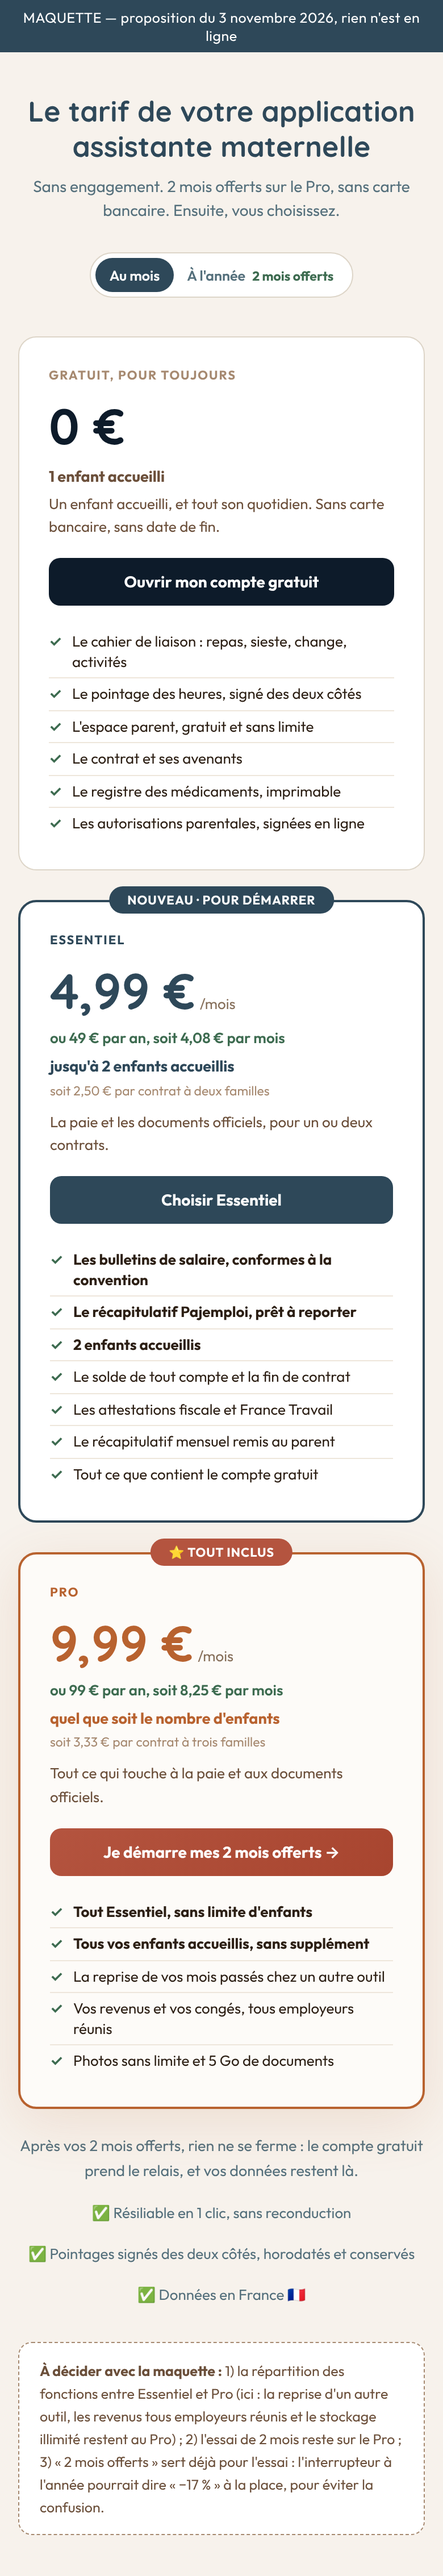
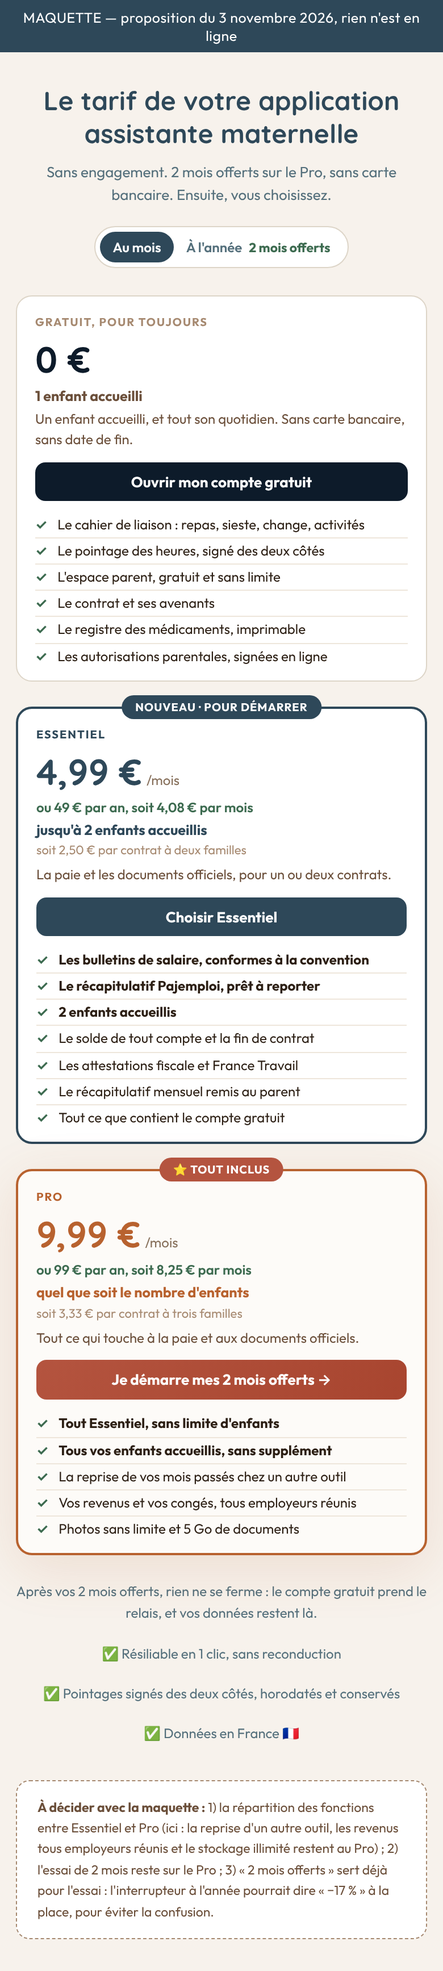
Page Facebook : l'adresse directe, et la maquette des offres allégée (#308)
Sophie a enregistré le nom d'utilisateur timatapp et vérifié que
facebook.com/timatapp ouvre bien sa Page : le site (pied de page du blog,
données structurées de l'accueil) l'utilise à la place du lien de partage.

Sur téléphone, Sophie trouvait les cartes de la maquette des offres trop
grosses : marges, prix et listes sont réduits, la page est d'environ un quart
plus courte. La maquette est validée ; les prix Essentiel (mois et année) et
Pro à l'année sont créés dans Stripe, la passation les note.

Construction : code de sortie 0, « Aucune anomalie. ».

Claude-Session: https://claude.ai/code/session_01JVfHnHqQqeEKwpYvot8sHP

diff --git a/index.html b/index.html
@@ -47,7 +47,7 @@
     <meta name="twitter:description" content="Salaire, congés, Pajemploi : calculés automatiquement. 2 mois d'essai gratuit." />
     <title>TiMat — Salaire, contrat et Pajemploi assistante maternelle</title>
     <script type="application/ld+json">
-    {"@context":"https://schema.org","@type":"SoftwareApplication","name":"TiMat","url":"https://www.timat.app/","applicationCategory":"BusinessApplication","operatingSystem":"Web","inLanguage":"fr-FR","description":"Application de gestion pour assistantes maternelles agréées et parents employeurs : contrat, mensualisation, salaire, congés payés, indemnités, déclaration Pajemploi, pointage et cahier de journée.","offers":{"@type":"Offer","price":"0","priceCurrency":"EUR","description":"2 mois d'essai gratuit, sans carte bancaire"},"publisher":{"@type":"Organization","name":"TiMat","url":"https://www.timat.app/","logo":"https://www.timat.app/logo.png","sameAs":["https://www.instagram.com/timat_app/","https://www.facebook.com/share/1EREng5TZz/"]}}
+    {"@context":"https://schema.org","@type":"SoftwareApplication","name":"TiMat","url":"https://www.timat.app/","applicationCategory":"BusinessApplication","operatingSystem":"Web","inLanguage":"fr-FR","description":"Application de gestion pour assistantes maternelles agréées et parents employeurs : contrat, mensualisation, salaire, congés payés, indemnités, déclaration Pajemploi, pointage et cahier de journée.","offers":{"@type":"Offer","price":"0","priceCurrency":"EUR","description":"2 mois d'essai gratuit, sans carte bancaire"},"publisher":{"@type":"Organization","name":"TiMat","url":"https://www.timat.app/","logo":"https://www.timat.app/logo.png","sameAs":["https://www.instagram.com/timat_app/","https://www.facebook.com/timatapp"]}}
     </script>
     <style>
       /* Le premier rendu.
@@ -182,7 +182,7 @@
         <p>Le salaire minimum, la mensualisation, les congés, la déclaration Pajemploi : les réponses aux questions qui reviennent.</p>
 
         <h2>Ressources pour les assmats</h2>
-        <p>93 guides pratiques gratuits, chacun adossé à ses sources officielles, et des simulateurs sans inscription.</p>
+        <p>94 guides pratiques gratuits, chacun adossé à ses sources officielles, et des simulateurs sans inscription.</p>
 
         <nav aria-label="Ressources">
           <ul>

diff --git a/docs/offres/maquette-offres.html b/docs/offres/maquette-offres.html
@@ -36,7 +36,7 @@ h2{font-family:Quicksand,sans-serif;font-size:36px;color:#2E4859;text-align:cent
 .relais{margin-top:22px;text-align:center;font-size:13.5px;color:#55707C;line-height:1.6;max-width:640px;margin-left:auto;margin-right:auto}
 .gar{display:flex;gap:20px;justify-content:center;flex-wrap:wrap;margin-top:18px;font-size:13px;color:#55707C}
 .note{margin:34px auto 0;max-width:760px;background:#fff;border:1px dashed #A68970;border-radius:12px;padding:14px 18px;font-size:12.5px;color:#6B4F3A;line-height:1.6}
-@media (max-width:760px){.wrap{padding:36px 16px}h2{font-size:25px}.grille{grid-template-columns:1fr;gap:26px}.desc{min-height:0}.bascule span{padding:7px 12px;font-size:12.5px}}
+@media (max-width:760px){.wrap{padding:28px 14px}h2{font-size:23px}.sub{font-size:13px;margin-bottom:18px}.grille{grid-template-columns:1fr;gap:22px}.carte{padding:16px 16px 10px;border-radius:14px}.carte.pro{border-width:2px}.lab{font-size:10px;margin-bottom:6px}.prix b{font-size:32px}.prix span{font-size:12px}.an{font-size:12px;margin:4px 0 2px}.cle{font-size:12.5px;margin:4px 0 2px}.parcontrat{font-size:11px;margin-bottom:6px}.desc{min-height:0;font-size:12px;margin-bottom:10px}.btn{padding:9px;font-size:13px;margin-bottom:10px;border-radius:9px}.li{font-size:12px;padding:3px 0}.badge{font-size:10px;padding:4px 12px;top:-12px}.bascule{margin-bottom:24px}.bascule span{padding:6px 11px;font-size:12px}.relais,.gar{font-size:12px}.note{font-size:11.5px}}
 </style></head><body>
 <div class="ban">MAQUETTE — proposition du 3 novembre 2026, rien n'est en ligne</div>
 <div class="wrap">

diff --git a/data/coordonnees.js b/data/coordonnees.js
@@ -30,13 +30,13 @@ export const EMAIL_EXPEDITEUR = "contact@timat.app";
 export const INSTAGRAM_URL = "https://www.instagram.com/timat_app/";
 export const INSTAGRAM_NOM = "@timat_app";
 
-// Page et groupe Facebook, liens donnés par Sophie le 22 octobre 2026. Ce sont
-// des liens de partage (facebook.com/share/...) : ils redirigent vers la Page
-// et le groupe, et c'est la seule forme qu'on puisse vérifier d'ici (Facebook
-// est bloqué depuis l'environnement de développement). On a retiré le suivi
-// « ?mibextid=… » ajouté par l'application. Si l'adresse directe de la Page
-// (facebook.com/<nom>) est connue un jour, c'est ici qu'elle se change.
-export const FACEBOOK_PAGE_URL = "https://www.facebook.com/share/1EREng5TZz/";
+// Page et groupe Facebook. Le groupe garde le lien de partage donné par Sophie
+// le 22 octobre 2026 (facebook.com/share/g/...), sans le suivi « ?mibextid=… ».
+// La Page a désormais son adresse directe : Sophie a enregistré le nom
+// d'utilisateur timatapp et vérifié le 3 novembre que facebook.com/timatapp
+// ouvre bien la Page (Facebook est bloqué depuis l'environnement de
+// développement, la vérification ne peut se faire que de son côté).
+export const FACEBOOK_PAGE_URL = "https://www.facebook.com/timatapp";
 export const FACEBOOK_GROUPE_URL = "https://www.facebook.com/share/g/1DrVY3qE2W/";
 
 // L'HEBERGEUR, ECRIT UNE SEULE FOIS.

diff --git a/data/nombre-guides.js b/data/nombre-guides.js
@@ -1,3 +1,3 @@
 // Ecrit par scripts/generate-blog.mjs a chaque build. Ne pas modifier a la main.
-export const NOMBRE_GUIDES = 93;
+export const NOMBRE_GUIDES = 94;
 export default NOMBRE_GUIDES;

diff --git a/docs/passation-2026-10-13.md b/docs/passation-2026-10-13.md
@@ -937,6 +937,30 @@ l'écran Fin de contrat.
     ni lire ni modifier les paramètres Stripe (à autoriser dans les
     connecteurs de claude.ai).
 
+- **3/11 (soir)** :
+  - Sophie confirme par écrit les 2 articles des 14 et 15/11 (présence
+    parentale, examens de grossesse). Couvertures posées.
+  - **Stripe** (connecteur autorisé par Sophie) : maquette des offres
+    VALIDÉE ; prix CRÉÉS sur le compte réel à sa demande, le Pro mensuel
+    (`price_1U00xu1AsEXBU0aL9ARcyMVN`) n'est pas touché :
+    produit `prod_VYrw3Q8loHUwnU` « TiMat Essentiel » ;
+    `price_1UXkDL1AsEXBU0aLGZ5WMAIf` Essentiel 4,99 €/mois
+    (lookup `timat_essentiel_mensuel`) ; `price_1UXkFG1AsEXBU0aLC3xawUGf`
+    Essentiel 49 €/an (`timat_essentiel_annuel`) ;
+    `price_1UXkFg1AsEXBU0aLwtYnX6Yt` Pro 99 €/an (`timat_pro_annuel`, sur le
+    produit Pro `prod_UFTCWih3jg9fFa`). RESTE : brancher ces prix dans
+    l'application (limite de 2 enfants, choix mois/année, page des offres,
+    CGV, accueil, kit, Page Facebook), puis le test de paiement.
+  - Stripe, constaté en lecture : nom commercial « LEFORT Sophie » (à mettre
+    « TiMat »), e-mail et adresse d'assistance vides, téléphone d'assistance
+    rempli ; virements en mode MANUEL (à passer en automatique) ; logo et
+    icône déposés par Sophie, mais le logo foncé ne se voit pas sur le bleu
+    marine : utiliser `public/logo-dark.png` (logo clair).
+  - Page Facebook : nom d'utilisateur `timatapp` enregistré, adresse directe
+    vérifiée par Sophie ; le site l'utilise désormais. La nouvelle version des
+    Pages n'a pas de champ « description longue » chez elle : seule la bio
+    courte ; proposer de publier le texte long et de l'épingler.
+
 ## Ce qu'il reste à faire
 
 **Sophie (état du 30/10)**
